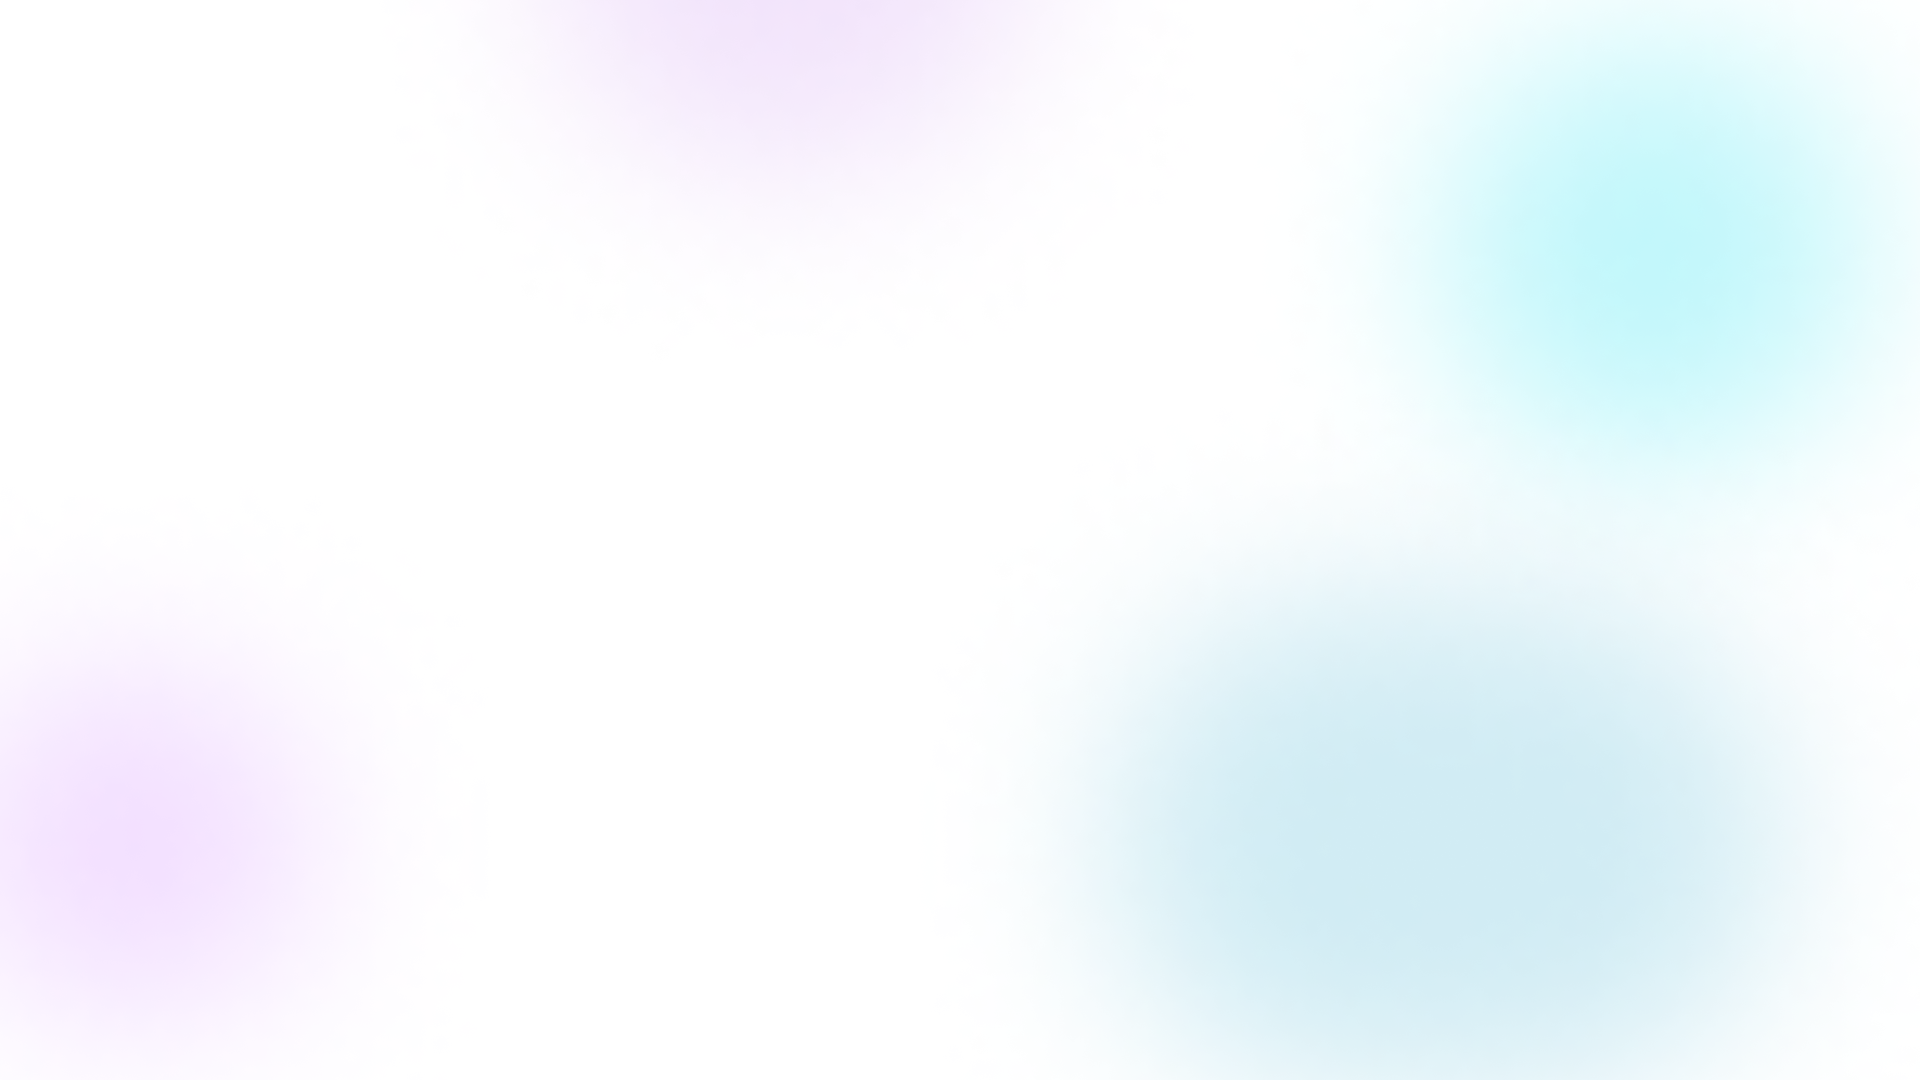
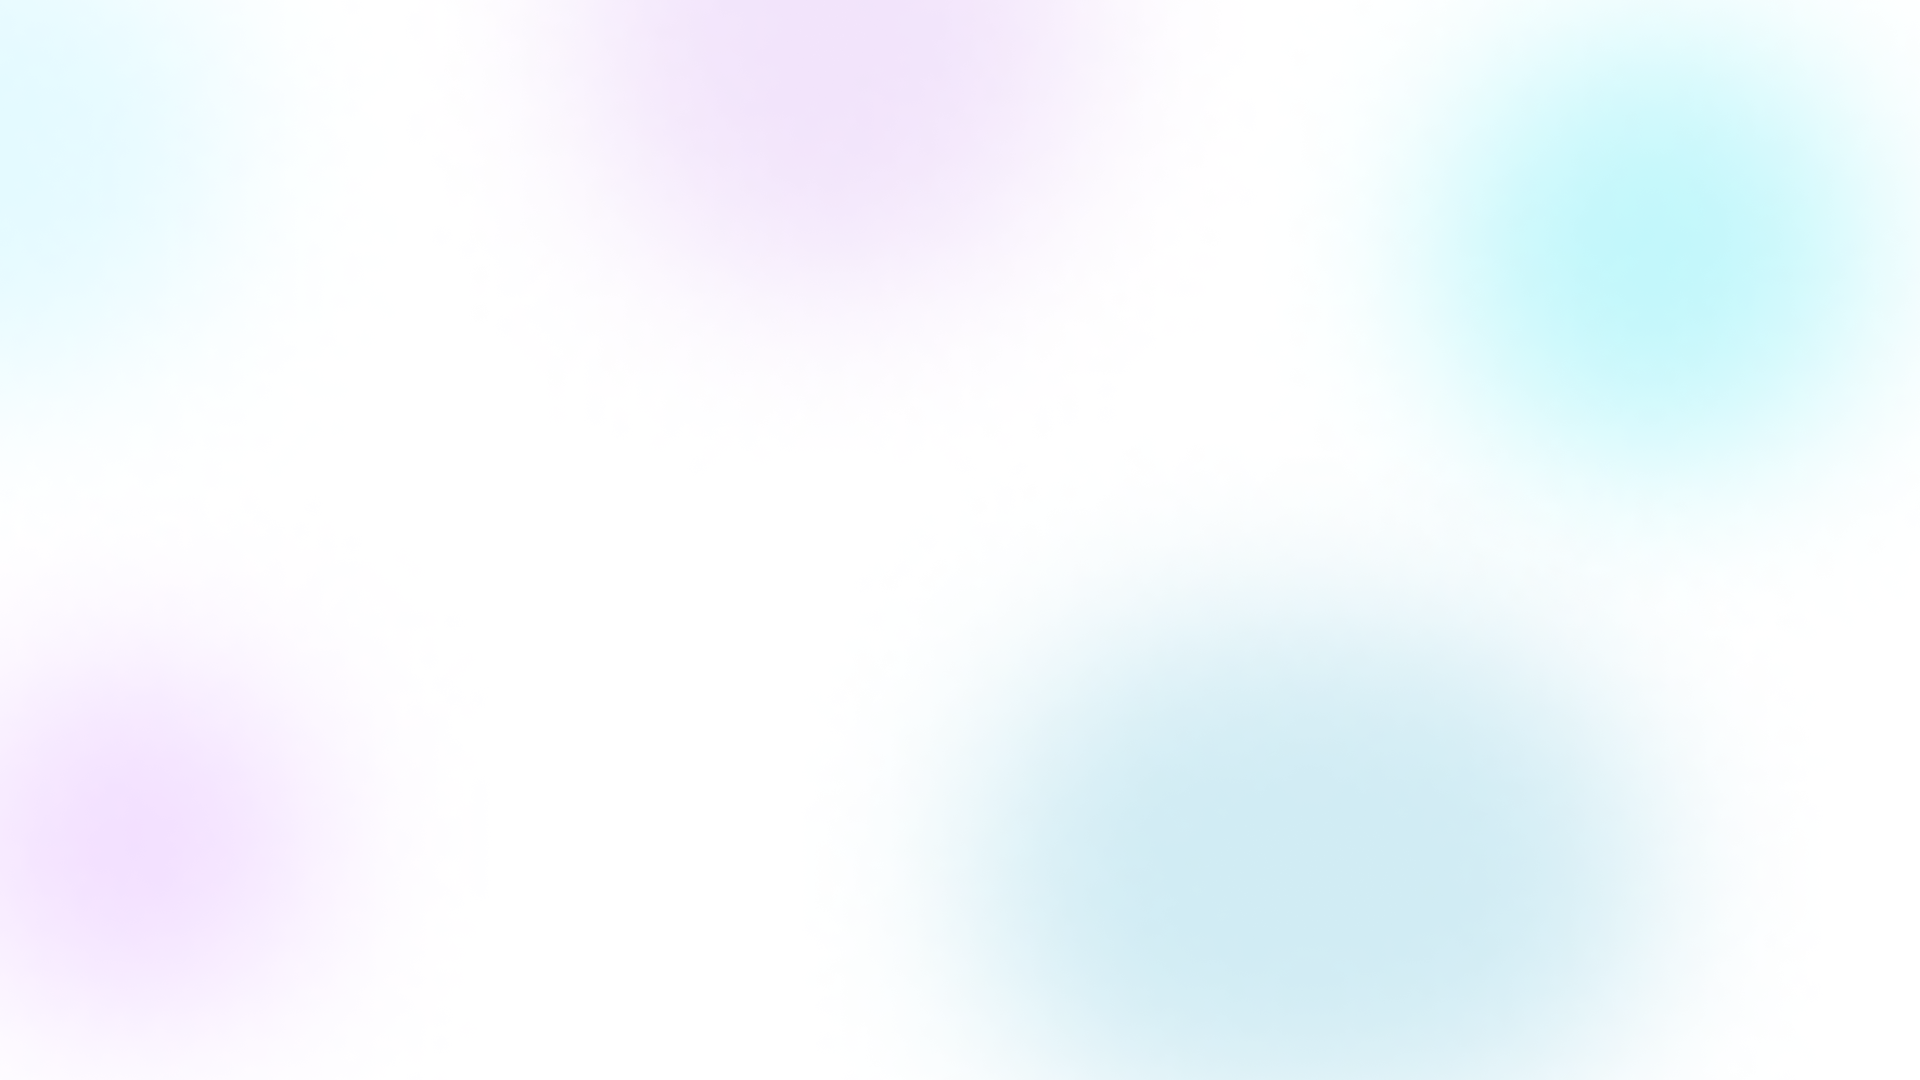
feat: replace bg

Changed region(s): [[0.0, 0.0306, 0.0625, 0.2444], [0.8438, 0.6722, 0.9062, 0.825], [0.5312, 0.7639, 0.5938, 0.9167]]

diff --git a/src/layout/index.module.css b/src/layout/index.module.css
@@ -2,6 +2,7 @@
   min-width: 100vw;
   min-height: 100vh !important;
   background: url('./bg.png') !important;
+  background-color: #fff;
   & :global .ant-layout,
   & :global .ant-layout-sider,
   & :global .ant-layout-sider .ant-menu,

diff --git a/src/var.css b/src/var.css
@@ -4,5 +4,7 @@
   /* #f5effc */
   /* #f4fcf9 #ade096*/
   /* #fbfaf1 #cfb776*/
+  
+  /* set #fff to turn off the transparent theme */
   --section-bg: transparent;
 }
